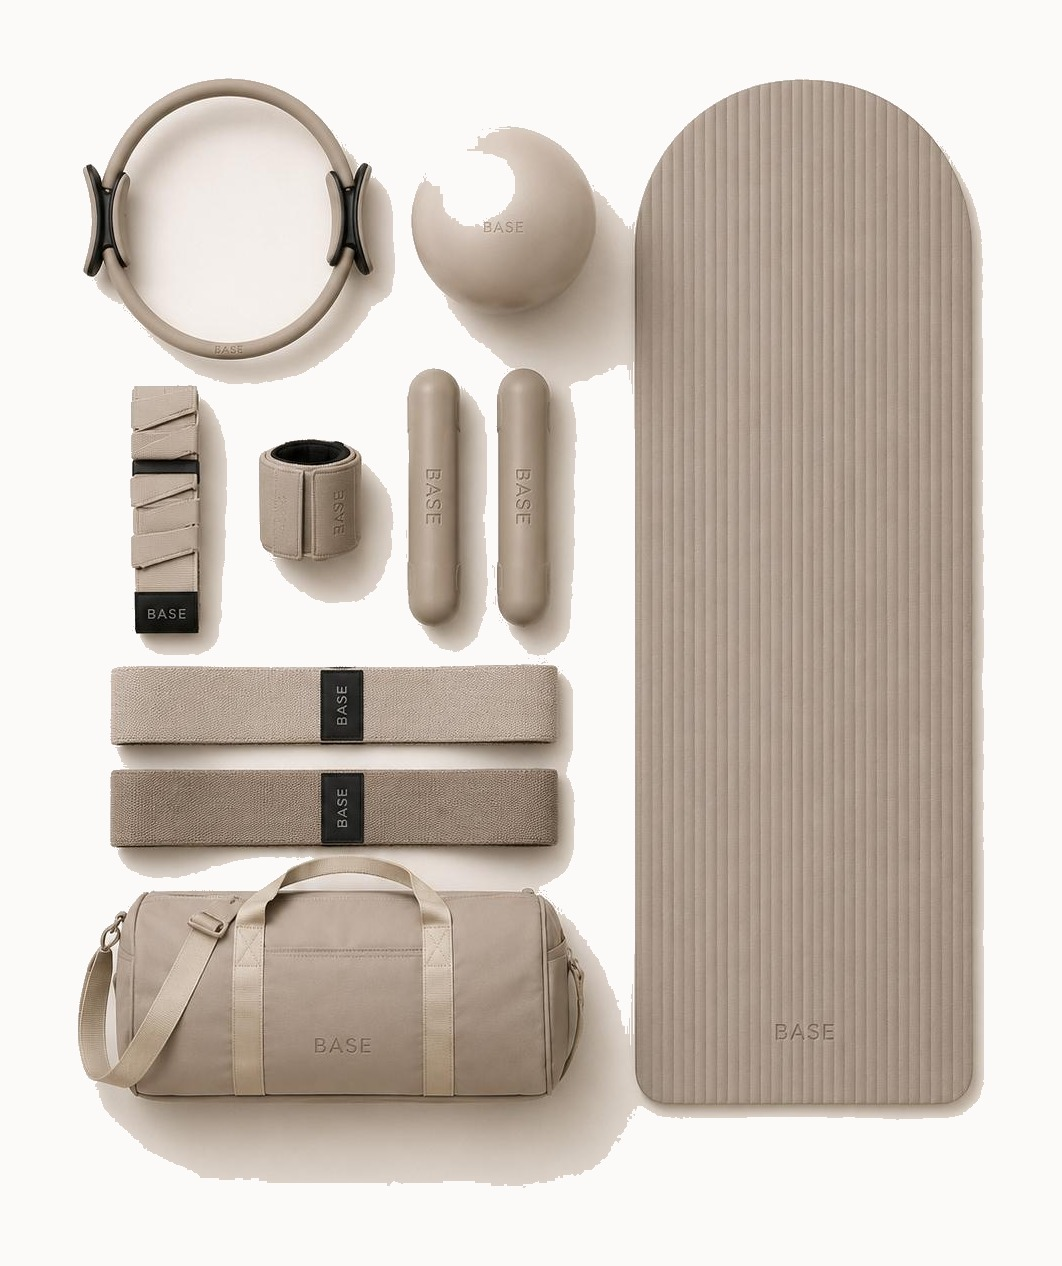
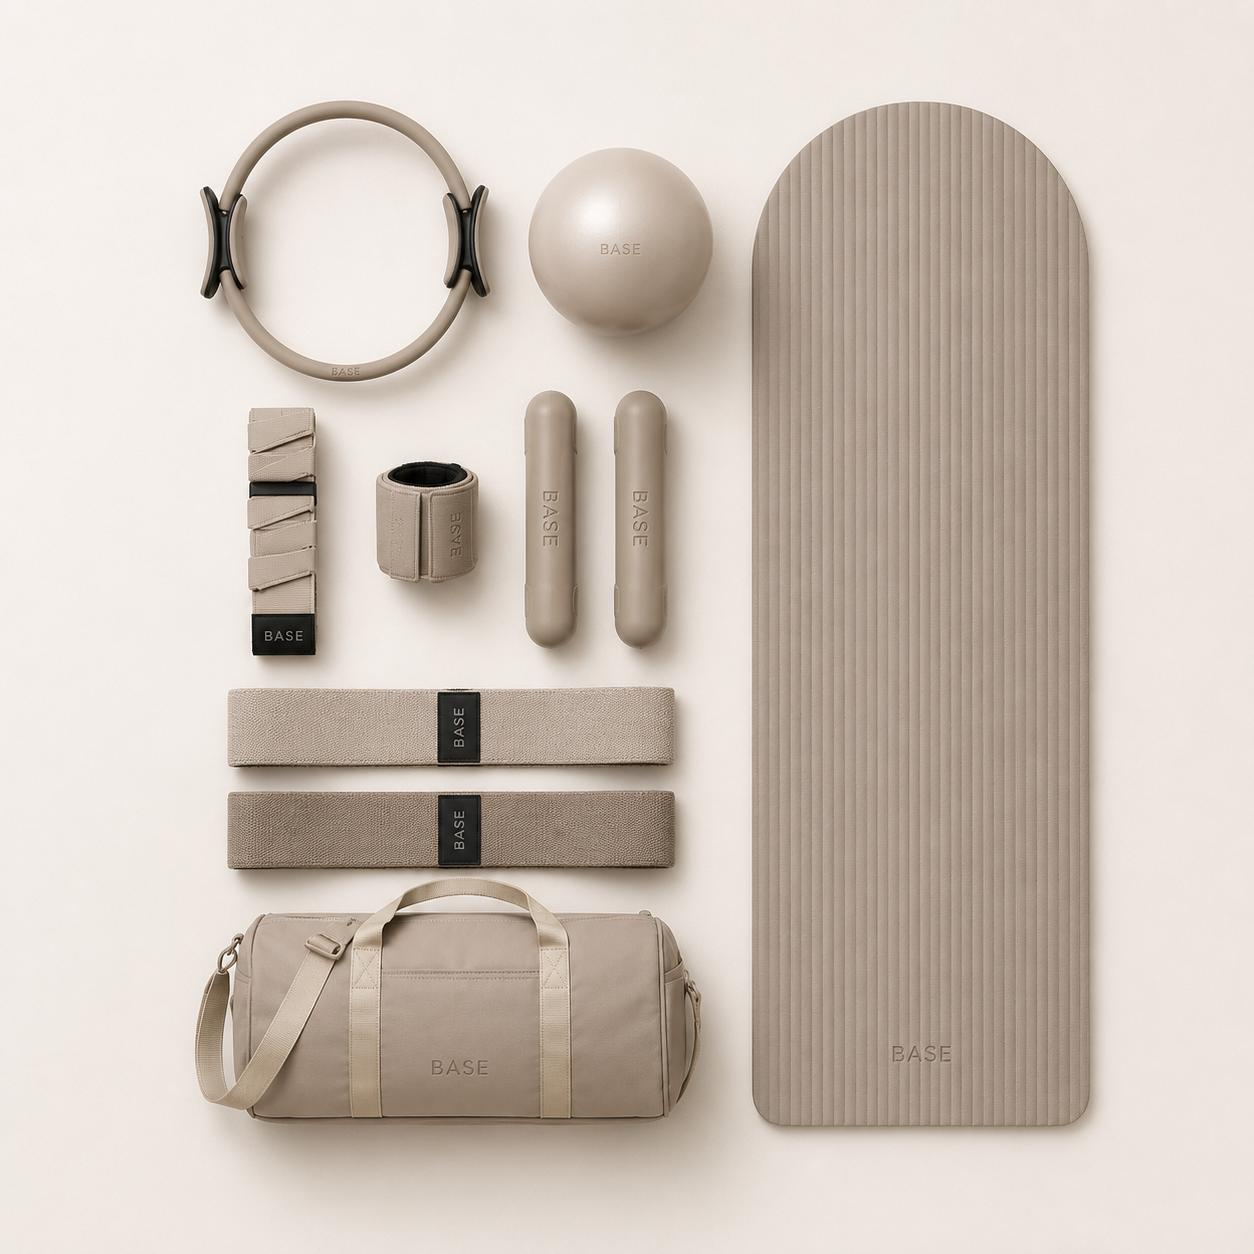
Fix Kit Essencial flat-lay: restore full render, refine focused-section display
- Restore the un-eaten full square BASE flat-lay (background normalisation had
  clipped part of the image)
- Present it in a square matted frame (contain-fit, warm mat, soft shadow +
  gold halo) so the whole composition shows uncropped in the focused Kit section

Claude-Session: https://claude.ai/code/session_01HvyQyJMMjbpRPFY5Vp62nP

diff --git a/public/index.html b/public/index.html
@@ -153,7 +153,7 @@
   <div class="container">
     <div class="kit__grid">
       <div class="kit__media" data-reveal="scale">
-        <div class="media-frame"><img src="/assets/img/products/base-077.jpg" alt="Kit Essencial de Pilates — Base Movement" width="1062" height="1266" loading="lazy" decoding="async" class="photo kit__photo"></div>
+        <div class="media-frame"><img src="/assets/img/products/base-077.jpg" alt="Kit Essencial de Pilates — Base Movement" width="1254" height="1254" loading="lazy" decoding="async" class="photo kit__photo"></div>
       </div>
       <div class="kit__body">
         <p class="eyebrow" data-reveal>Comece por aqui</p>
@@ -291,7 +291,7 @@
     <div class="collection-grid">
       
       <a class="collection-card" href="/catalogo/kit-essencial/" data-reveal style="--reveal-delay:0ms">
-        <div class="media-frame"><img src="/assets/img/products/base-077.jpg" alt="Kit Essencial de Pilates — Base Movement" width="1062" height="1266" loading="lazy" decoding="async" class="photo "></div>
+        <div class="media-frame"><img src="/assets/img/products/base-077.jpg" alt="Kit Essencial de Pilates — Base Movement" width="1254" height="1254" loading="lazy" decoding="async" class="photo "></div>
         <div class="collection-card__title">
           <h3>Kit Essencial de Pilates</h3>
           <svg viewBox="0 0 24 24" fill="none" stroke="currentColor" stroke-width="1.5" stroke-linecap="round" stroke-linejoin="round" aria-hidden="true"><path d="M7 17L17 7M9 7h8v8"/></svg>

diff --git a/public/en/index.html b/public/en/index.html
@@ -153,7 +153,7 @@
   <div class="container">
     <div class="kit__grid">
       <div class="kit__media" data-reveal="scale">
-        <div class="media-frame"><img src="/assets/img/products/base-077.jpg" alt="Essential Pilates Kit — Base Movement" width="1062" height="1266" loading="lazy" decoding="async" class="photo kit__photo"></div>
+        <div class="media-frame"><img src="/assets/img/products/base-077.jpg" alt="Essential Pilates Kit — Base Movement" width="1254" height="1254" loading="lazy" decoding="async" class="photo kit__photo"></div>
       </div>
       <div class="kit__body">
         <p class="eyebrow" data-reveal>Start here</p>
@@ -291,7 +291,7 @@
     <div class="collection-grid">
       
       <a class="collection-card" href="/en/catalogue/kit-essencial/" data-reveal style="--reveal-delay:0ms">
-        <div class="media-frame"><img src="/assets/img/products/base-077.jpg" alt="Essential Pilates Kit — Base Movement" width="1062" height="1266" loading="lazy" decoding="async" class="photo "></div>
+        <div class="media-frame"><img src="/assets/img/products/base-077.jpg" alt="Essential Pilates Kit — Base Movement" width="1254" height="1254" loading="lazy" decoding="async" class="photo "></div>
         <div class="collection-card__title">
           <h3>Essential Pilates Kit</h3>
           <svg viewBox="0 0 24 24" fill="none" stroke="currentColor" stroke-width="1.5" stroke-linecap="round" stroke-linejoin="round" aria-hidden="true"><path d="M7 17L17 7M9 7h8v8"/></svg>

diff --git a/public/assets/css/main.css b/public/assets/css/main.css
@@ -2401,9 +2401,10 @@ body.is-loaded .preloader { opacity: 0; visibility: hidden; pointer-events: none
 .kit__media .media-frame {
   position: relative;
   z-index: 1;
-  aspect-ratio: 113 / 100;
+  aspect-ratio: 1 / 1;
   border-radius: var(--radius-lg);
-  background: #F2EEE7;
+  background: #F3EEE6;
+  padding: clamp(0.5rem, 2.2vw, 1.5rem);
   box-shadow: 0 1px 2px rgba(43, 38, 30, 0.05), 0 44px 84px -38px rgba(43, 38, 30, 0.34);
   transition: transform var(--dur-slow) var(--ease-luxury), box-shadow var(--dur-slow) var(--ease-luxury);
 }
@@ -2411,7 +2412,7 @@ body.is-loaded .preloader { opacity: 0; visibility: hidden; pointer-events: none
   transform: translateY(-6px);
   box-shadow: 0 1px 2px rgba(43, 38, 30, 0.05), 0 54px 96px -38px rgba(43, 38, 30, 0.4);
 }
-.kit__media .media-frame .photo { object-fit: cover; }
+.kit__media .media-frame .photo { object-fit: contain; padding: 0; background: transparent; border-radius: calc(var(--radius-lg) - 0.35rem); }
 @media (prefers-reduced-motion: reduce) { .kit__media .media-frame { transition: none; } }
 .kit__body .eyebrow { margin-bottom: var(--space-sm); }
 .kit__body .text-lead { margin-top: var(--space-sm); max-width: 34rem; }

diff --git a/src/assets/css/experience.css b/src/assets/css/experience.css
@@ -407,9 +407,10 @@
 .kit__media .media-frame {
   position: relative;
   z-index: 1;
-  aspect-ratio: 113 / 100;
+  aspect-ratio: 1 / 1;
   border-radius: var(--radius-lg);
-  background: #F2EEE7;
+  background: #F3EEE6;
+  padding: clamp(0.5rem, 2.2vw, 1.5rem);
   box-shadow: 0 1px 2px rgba(43, 38, 30, 0.05), 0 44px 84px -38px rgba(43, 38, 30, 0.34);
   transition: transform var(--dur-slow) var(--ease-luxury), box-shadow var(--dur-slow) var(--ease-luxury);
 }
@@ -417,7 +418,7 @@
   transform: translateY(-6px);
   box-shadow: 0 1px 2px rgba(43, 38, 30, 0.05), 0 54px 96px -38px rgba(43, 38, 30, 0.4);
 }
-.kit__media .media-frame .photo { object-fit: cover; }
+.kit__media .media-frame .photo { object-fit: contain; padding: 0; background: transparent; border-radius: calc(var(--radius-lg) - 0.35rem); }
 @media (prefers-reduced-motion: reduce) { .kit__media .media-frame { transition: none; } }
 .kit__body .eyebrow { margin-bottom: var(--space-sm); }
 .kit__body .text-lead { margin-top: var(--space-sm); max-width: 34rem; }

diff --git a/public/catalogo/index.html b/public/catalogo/index.html
@@ -128,7 +128,7 @@
       
       <a class="collection-card" href="/catalogo/kit-essencial/" data-reveal style="--reveal-delay:0ms">
         <div class="media-frame">
-          <img src="/assets/img/products/base-077.jpg" alt="Kit Essencial de Pilates — Base Movement" width="1062" height="1266" loading="lazy" decoding="async" class="photo ">
+          <img src="/assets/img/products/base-077.jpg" alt="Kit Essencial de Pilates — Base Movement" width="1254" height="1254" loading="lazy" decoding="async" class="photo ">
         </div>
         <div class="collection-card__title">
           <h3>Kit Essencial de Pilates</h3>

diff --git a/public/en/catalogue/index.html b/public/en/catalogue/index.html
@@ -128,7 +128,7 @@
       
       <a class="collection-card" href="/en/catalogue/kit-essencial/" data-reveal style="--reveal-delay:0ms">
         <div class="media-frame">
-          <img src="/assets/img/products/base-077.jpg" alt="Essential Pilates Kit — Base Movement" width="1062" height="1266" loading="lazy" decoding="async" class="photo ">
+          <img src="/assets/img/products/base-077.jpg" alt="Essential Pilates Kit — Base Movement" width="1254" height="1254" loading="lazy" decoding="async" class="photo ">
         </div>
         <div class="collection-card__title">
           <h3>Essential Pilates Kit</h3>
